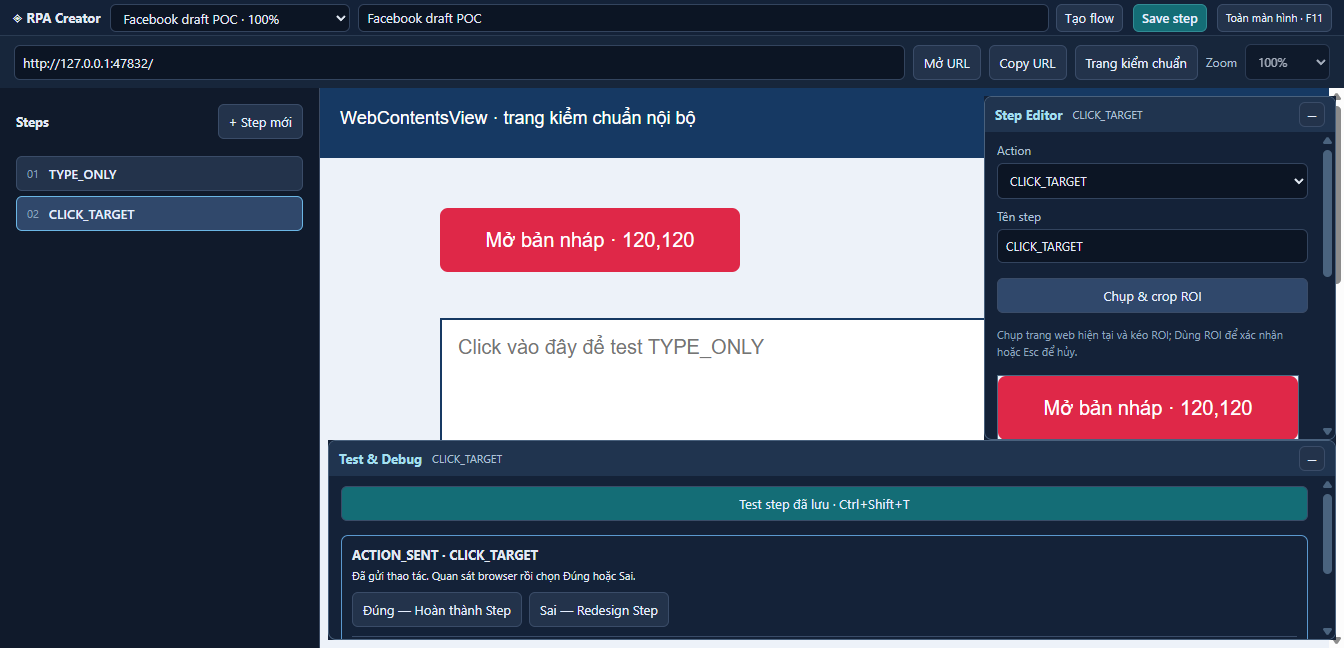
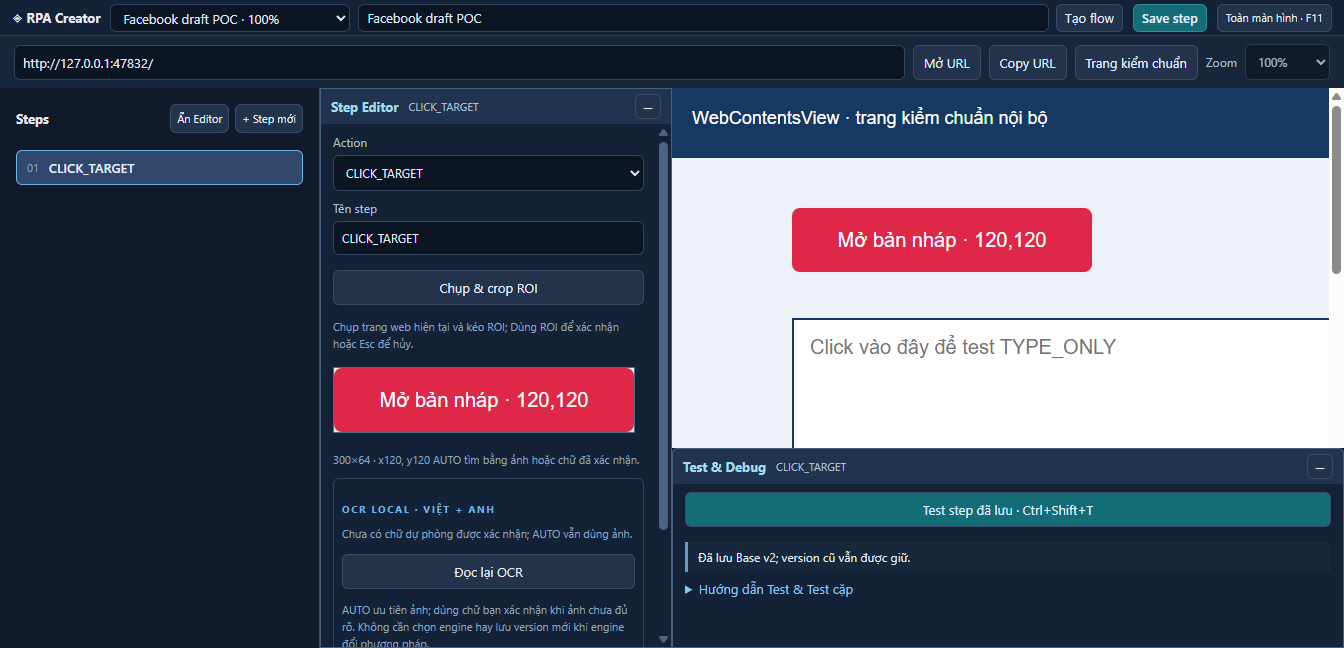
fix: prevent Debug Test toolbar from covering scrolled controls

diff --git a/src/renderer/main.tsx b/src/renderer/main.tsx
@@ -822,6 +822,36 @@ function Creator() {
               {expanded ? "−" : "+"}
             </button>
           </div>
+          {!shell && expanded && selected && (
+            <div className="test-controls">
+              {environmentMismatch && (
+                <div className="environment-warning" role="note">
+                  Target cần {expected!.width}×{expected!.height} @{" "}
+                  {expected!.zoom * 100}%; hiện tại {state!.browserBounds.width}
+                  ×{state!.browserBounds.height}. Test sẽ bị chặn khi khác môi
+                  trường.
+                  <button
+                    disabled={locked || expected!.zoom !== state!.zoom}
+                    onClick={() =>
+                      void task(() =>
+                        setEditorOpen(
+                          expected!.width === WEB_WIDTH - EDITOR_WIDTH,
+                        ),
+                      )
+                    }
+                  >
+                    Khôi phục viewport target
+                  </button>
+                </div>
+              )}
+              <button
+                disabled={locked}
+                onClick={() => void run(selected, overrideId)}
+              >
+                Test step đã lưu · Ctrl+Shift+T
+              </button>
+            </div>
+          )}
           {expanded && (
             <div className="panel-body">
               {shell ? (
@@ -1206,37 +1236,7 @@ function Creator() {
                 </>
               ) : (
                 <>
-                  {selected ? (
-                    <>
-                      {environmentMismatch && (
-                        <div className="environment-warning" role="note">
-                          Target cần {expected!.width}×{expected!.height} @{" "}
-                          {expected!.zoom * 100}%; hiện tại{" "}
-                          {state!.browserBounds.width}×
-                          {state!.browserBounds.height}. Test sẽ bị chặn khi
-                          khác môi trường.
-                          <button
-                            disabled={locked || expected!.zoom !== state!.zoom}
-                            onClick={() =>
-                              void task(() =>
-                                setEditorOpen(
-                                  expected!.width === WEB_WIDTH - EDITOR_WIDTH,
-                                ),
-                              )
-                            }
-                          >
-                            Khôi phục viewport target
-                          </button>
-                        </div>
-                      )}
-                      <button
-                        disabled={locked}
-                        onClick={() => void run(selected, overrideId)}
-                      >
-                        Test step đã lưu · Ctrl+Shift+T
-                      </button>
-                    </>
-                  ) : (
+                  {!selected && (
                     <p className="hint">
                       Lưu hoặc chọn Step để Test. Kết quả cần bạn xác nhận.
                     </p>

diff --git a/src/main/fixture-ui.ts b/src/main/fixture-ui.ts
@@ -64,6 +64,20 @@ export function fixtureUi(window: BrowserWindow) {
             );
           }
           const result = await wc.executeJavaScript(code);
+          if (
+            buttonText &&
+            result &&
+            Number.isFinite(result.x) &&
+            Number.isFinite(result.y)
+          ) {
+            const uncovered = await wc.executeJavaScript(
+              `(()=>{const e=[...document.querySelectorAll('button')].find(b=>b.textContent.includes(${buttonText}));return e?.contains(document.elementFromPoint(${result.x},${result.y}))})()`,
+            );
+            if (!uncovered)
+              throw new Error(
+                `Fixture button is covered at its click point: ${buttonText}`,
+              );
+          }
           active = wc;
           return result;
         } catch (e) {

diff --git a/src/renderer/style.css b/src/renderer/style.css
@@ -461,12 +461,16 @@ body[data-panel="debug"] .panel-body {
   display: flex;
   flex-direction: column;
 }
-body[data-panel="debug"] .panel-body > button:first-child {
-  position: sticky;
-  top: -10px;
-  background: #146d76;
-  z-index: 1;
+body[data-panel="debug"] .test-controls {
+  flex: 0 0 auto;
+  padding: 8px 12px 0;
+  background: #142238;
 }
+body[data-panel="debug"] .test-controls > button {
+  width: 100%;
+  background: #146d76;
+}
+
 body[data-panel="debug"] .review-actions {
   display: flex;
   flex-wrap: wrap;

diff --git a/src/main/address-self-test.ts b/src/main/address-self-test.ts
@@ -73,6 +73,7 @@ export async function runSelfTest({
   await until(async () => page.getURL().endsWith("?replaced"));
   await synced("forward");
   await click("a", page);
+  await until(async () => page.getURL() === base + "/address?linked");
   await synced("native link navigation");
   assert.ok(page.getURL().endsWith("?linked"));
   await page.executeJavaScript(`location.hash='section'`);

diff --git a/docs/creator-ui-refactor-status.md b/docs/creator-ui-refactor-status.md
@@ -28,9 +28,15 @@ Runtime kiểm tra toàn bộ kế hoạch Visual Step trước capture/input (C
 
 ## Kiểm thử hiện tại
 
-Typecheck/build và 28 unit tests đã pass, gồm geometry, legacy target, mismatch guard và metadata qua Version/Override. Electron UI fixture mới đã chạy tới ba kiểm tra đầu, sau đó lỗi tìm control; cần chạy lại đầy đủ. Lần chạy tiếp theo gặp lỗi navigation/lock. Báo cáo cũ không được dùng làm kết quả pass của bản này.
+Typecheck/build và 28/28 unit tests pass. Electron fixture hiện tại: creator-ui 7, first 27, restart 3, UX 16, OCR 8, typing 13, upload 8, address 14 — tổng 96 checks pass. Phase `first` vẫn partial với hai mục hạn chế/thủ công: capture khi ẩn view có thể timeout và Ctrl+Shift+T vật lý chưa xác nhận.
 
-Automatic approval review chặn chạy lại fixture khi process Creator PID 30400 còn cửa sổ hoạt động, vì có thể chạm phiên Facebook đang mở. Chờ người dùng đóng hẳn process hoặc cho phép dừng trước khi chạy lại. Mouse vật lý và mục tiêu click Facebook ngoài Debug vẫn **chưa xác nhận**.
+Đã tái hiện trong fixture một lỗi UI: nút Test dùng `position: sticky` che control khi cuộn Debug; click “Tạo Step tiếp theo” có thể chạy Test thêm (click-count 4 thay vì 3). Đã tách Test thành thanh cố định ngoài vùng cuộn, và kiểm tra `elementFromPoint` trong fixture để từ chối điểm click đang bị control khác che. Regression OCR/review/next-step đã pass, không còn click thừa. Fixture URL cũng được sửa để đợi URL đích trước khi kiểm tra navigation.
+
+Sau khi được phép dừng phiên cũ, kiểm tra cho thấy PID 30400 và các Electron đã thoát; không cần dừng app live. Các fixture đã chạy trong phiên riêng. Native OS mouse fixture được thử nhưng không qua vì `SetCursorPos` thất bại trong automation desktop. Báo cáo `browser-creator-native.json` vẫn `incomplete`; đây không phải native hit-testing pass. **Lỗi click vật lý trên Facebook vẫn chưa xác nhận đã sửa**, cần bài thử Windows bên dưới.
+
+[Ảnh UI hiện tại](images/creator-ui.png) ghép từ capture thật của shell, browser và Debug theo bounds, không phải screenshot desktop nguyên khối.
+
+![Editor dạng cột và Debug sát đáy](images/creator-ui.png)
 
 ```powershell
 Set-Location D:\workspace-2026\rpa\new
